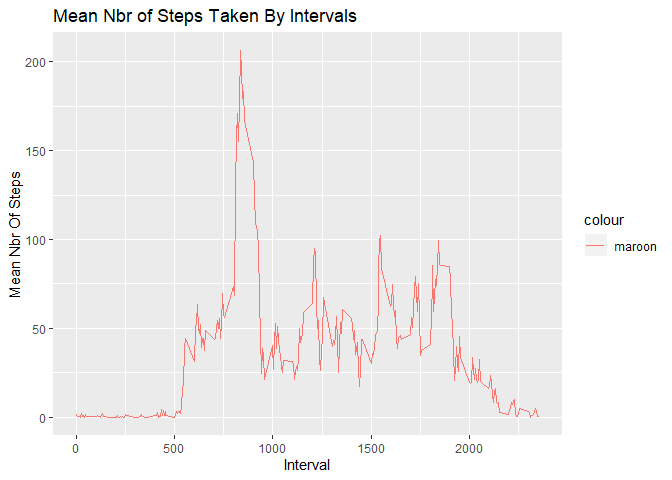
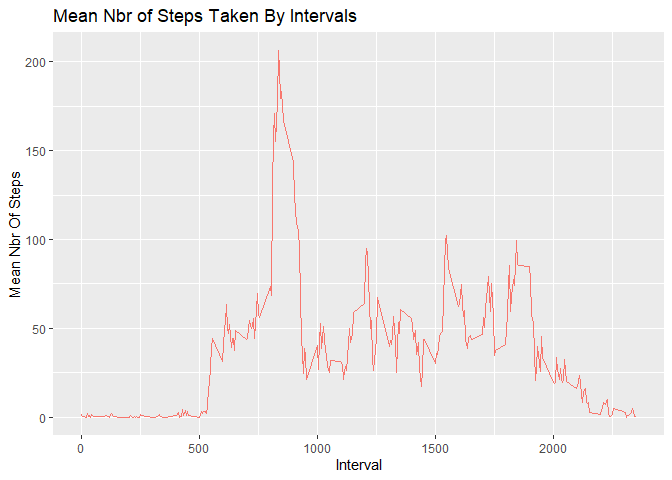
Minor Updates to legend

diff --git a/PA1_template.html b/PA1_template.html
@@ -394,8 +394,8 @@ The median number of steps taken each day is <strong>10395</strong>.</p>
   summarize(mean_steps=mean(steps, na.rm=TRUE))
 
 ggplot(data=steps_int, aes(x=steps_int$interval, y=mean_steps, group=1, color=&quot;maroon&quot;)) +
-   geom_line()+xlab(&quot;Interval&quot;)+ylab(&quot;Mean Nbr Of Steps&quot;)+ggtitle(&quot;Mean Nbr of Steps Taken By Intervals&quot;)</code></pre>
[1 lines of base64/hex data omitted]
+   geom_line()+xlab(&quot;Interval&quot;)+ylab(&quot;Mean Nbr Of Steps&quot;)+ggtitle(&quot;Mean Nbr of Steps Taken By Intervals&quot;)+theme(legend.position = &quot;none&quot;) </code></pre>
[1 lines of base64/hex data omitted]
 </div>
 <div id="imputing-missing-values" class="section level2">
 <h2>Imputing missing values</h2>

diff --git a/PA1_template.md b/PA1_template.md
@@ -48,7 +48,7 @@ steps_int <-data %>%
   summarize(mean_steps=mean(steps, na.rm=TRUE))
 
 ggplot(data=steps_int, aes(x=steps_int$interval, y=mean_steps, group=1, color="maroon")) +
-   geom_line()+xlab("Interval")+ylab("Mean Nbr Of Steps")+ggtitle("Mean Nbr of Steps Taken By Intervals")
+   geom_line()+xlab("Interval")+ylab("Mean Nbr Of Steps")+ggtitle("Mean Nbr of Steps Taken By Intervals")+theme(legend.position = "none") 
 ```
 
 ![](PA1_template_files/figure-html/unnamed-chunk-3-1.png)<!-- -->
